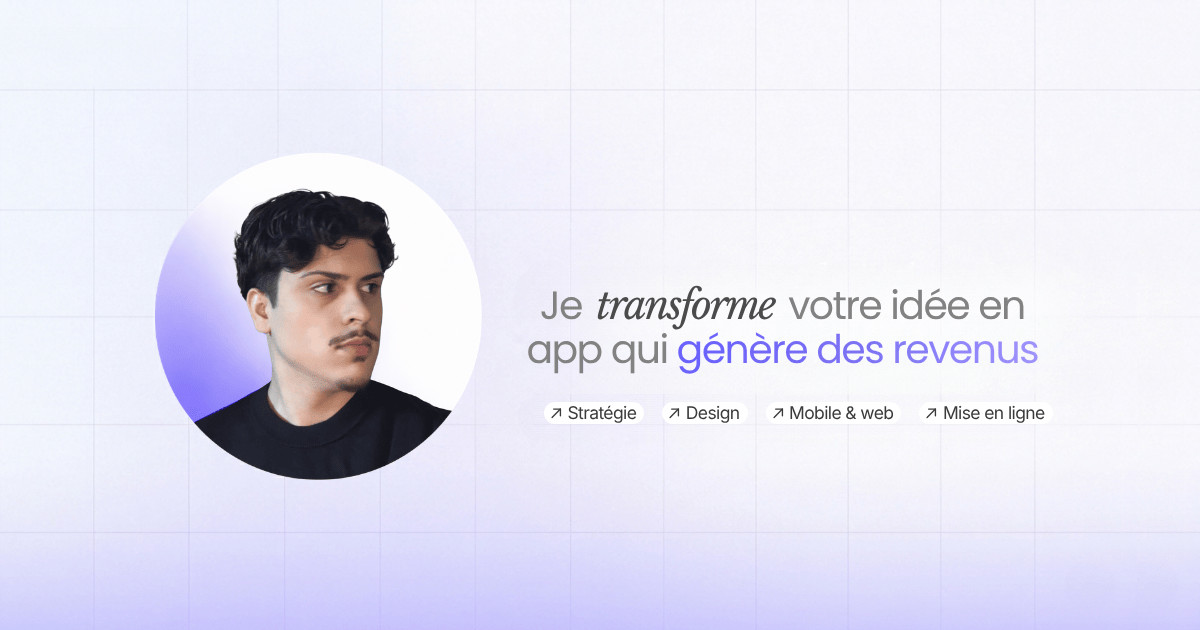
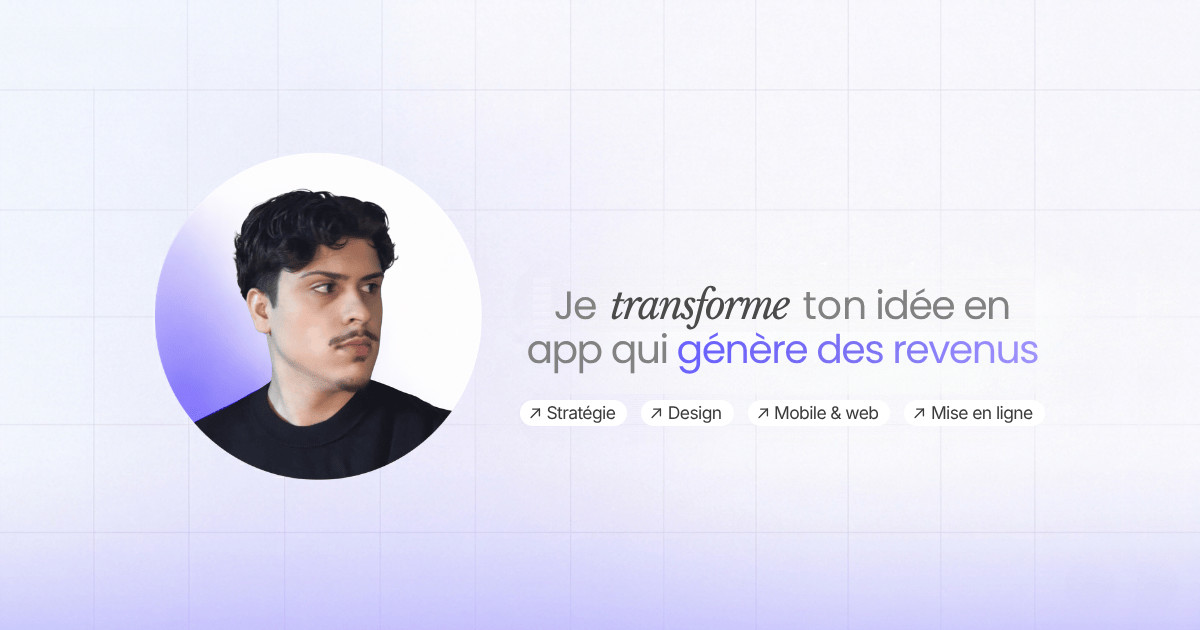
Images de partage : « ton idée », image espace client, dossier rangé
- accueil-og.jpg : « votre idée » devient « ton idée », refait avec les
  lettres de l'image d'origine (même police), bulles plus aérées, contenu
  centré.
- Nouvelle espace-client-og.png (« Devis, factures, échanges » /
  « Espace client »), posée sur /espace-client.
- audit-app-og.png renommée audit-og.png : le dossier meta contient
  quatre images au nom clair (accueil, maquette, espace-client, audit),
  toutes sous 300 Ko.
- generate-routes.js : les remplacements d'aperçu sont factorisés dans
  poserApercuPartage(), utilisée par les maquettes et l'espace client.

Claude-Session: https://claude.ai/code/session_01PSzDaerYfzq1odvAjCNAR4

Changed region(s): [[0.4317, 0.4524, 0.8633, 0.5429], [0.4317, 0.6333, 0.8633, 0.6937]]

diff --git a/scripts/generate-routes.js b/scripts/generate-routes.js
@@ -1073,7 +1073,7 @@ const auditAppRoute = {
   path: '/audit-app',
   heading: 'Tester ton idée d\'application mobile',
   content: 'Réponds à quelques questions et obtiens une première lecture claire avant d\'investir dans le développement : potentiel, budget réaliste, délai, et si ton idée peut générer des revenus.',
-  ogImage: 'https://noecalmes.fr/assets/images/meta/audit-app-og.png',
+  ogImage: 'https://noecalmes.fr/assets/images/meta/audit-og.png',
   ogImageAlt: 'Audit gratuit pour tester si ton idée d\'application mobile peut générer des revenus.',
 }
 
@@ -1132,36 +1132,55 @@ const MAQUETTE_PARTAGE = {
   imageAlt: "L'idée prend forme : place à la maquette, par Noé Calmes",
 }
 
+// Pose un apercu de partage complet sur une page generee : titre, description,
+// image, adresse. Sert aux maquettes et a l'espace client. og:url ET canonique
+// pointent sur la page elle-meme : le robot de Facebook/WhatsApp suit og:url
+// comme adresse de reference, et lisait sinon l'image de l'accueil. Ces pages
+// sont noindex, la canonique n'a aucun effet SEO.
+function poserApercuPartage(html, path, apercu) {
+  const url = urlPublique(path)
+  const remplacements = [
+    [/<title>[^<]*<\/title>/, `<title>${apercu.title}</title>`],
+    [/<meta\s+name="description"\s+content="[^"]*"\s*\/?>/, `<meta name="description" content="${apercu.description}" />`],
+    [/<link\s+rel="canonical"\s+href="[^"]*"\s*\/?>/, `<link rel="canonical" href="${url}" />`],
+    [/<link\s+rel="alternate"\s+hreflang="fr-fr"\s+href="[^"]*"\s*\/?>/, `<link rel="alternate" hreflang="fr-fr" href="${url}" />`],
+    [/<link\s+rel="alternate"\s+hreflang="x-default"\s+href="[^"]*"\s*\/?>/, `<link rel="alternate" hreflang="x-default" href="${url}" />`],
+    [/<meta\s+property="og:url"\s+content="[^"]*"\s*\/?>/, `<meta property="og:url" content="${url}" />`],
+    [/<meta\s+property="og:title"\s+content="[^"]*"\s*\/?>/, `<meta property="og:title" content="${apercu.title}" />`],
+    [/<meta\s+property="og:description"\s+content="[^"]*"\s*\/?>/, `<meta property="og:description" content="${apercu.description}" />`],
+    [/<meta\s+property="og:image"\s+content="[^"]*"\s*\/?>/, `<meta property="og:image" content="${apercu.image}" />`],
+    [/<meta\s+property="og:image:alt"\s+content="[^"]*"\s*\/?>/, `<meta property="og:image:alt" content="${apercu.imageAlt}" />`],
+    [/<meta\s+name="twitter:title"\s+content="[^"]*"\s*\/?>/, `<meta name="twitter:title" content="${apercu.title}" />`],
+    [/<meta\s+name="twitter:description"\s+content="[^"]*"\s*\/?>/, `<meta name="twitter:description" content="${apercu.description}" />`],
+    [/<meta\s+name="twitter:image"\s+content="[^"]*"\s*\/?>/, `<meta name="twitter:image" content="${apercu.image}" />`],
+    [/<meta\s+name="twitter:image:alt"\s+content="[^"]*"\s*\/?>/, `<meta name="twitter:image:alt" content="${apercu.imageAlt}" />`],
+    [/"image":\s*"[^"]*"/, `"image": "${apercu.image}"`],
+  ]
+  for (const [motif, valeur] of remplacements) html = html.replace(motif, valeur)
+  return html
+}
+
 for (const path of mockupRoutes) {
   let html = retirerFaqPage(baseHtml)
-  const url = urlPublique(path)
   html = html.replace(
     /<meta\s+name="robots"\s+content="[^"]*"\s*\/?>/,
     '<meta name="robots" content="noindex, nofollow" />'
   )
-  html = html.replace(/<title>[^<]*<\/title>/, `<title>${MAQUETTE_PARTAGE.title}</title>`)
-  html = html.replace(/<meta\s+name="description"\s+content="[^"]*"\s*\/?>/, `<meta name="description" content="${MAQUETTE_PARTAGE.description}" />`)
-  // og:url ET canonique sur la page elle-meme, pas sur l'accueil : le robot de
-  // Facebook/WhatsApp suit og:url comme adresse de reference et aurait lu
-  // l'image de l'accueil. La page est noindex, la canonique n'a pas d'effet SEO.
-  html = html.replace(/<link\s+rel="canonical"\s+href="[^"]*"\s*\/?>/, `<link rel="canonical" href="${url}" />`)
-  html = html.replace(/<link\s+rel="alternate"\s+hreflang="fr-fr"\s+href="[^"]*"\s*\/?>/, `<link rel="alternate" hreflang="fr-fr" href="${url}" />`)
-  html = html.replace(/<link\s+rel="alternate"\s+hreflang="x-default"\s+href="[^"]*"\s*\/?>/, `<link rel="alternate" hreflang="x-default" href="${url}" />`)
-  html = html.replace(/<meta\s+property="og:url"\s+content="[^"]*"\s*\/?>/, `<meta property="og:url" content="${url}" />`)
-  html = html.replace(/<meta\s+property="og:title"\s+content="[^"]*"\s*\/?>/, `<meta property="og:title" content="${MAQUETTE_PARTAGE.title}" />`)
-  html = html.replace(/<meta\s+property="og:description"\s+content="[^"]*"\s*\/?>/, `<meta property="og:description" content="${MAQUETTE_PARTAGE.description}" />`)
-  html = html.replace(/<meta\s+property="og:image"\s+content="[^"]*"\s*\/?>/, `<meta property="og:image" content="${MAQUETTE_PARTAGE.image}" />`)
-  html = html.replace(/<meta\s+property="og:image:alt"\s+content="[^"]*"\s*\/?>/, `<meta property="og:image:alt" content="${MAQUETTE_PARTAGE.imageAlt}" />`)
-  html = html.replace(/<meta\s+name="twitter:title"\s+content="[^"]*"\s*\/?>/, `<meta name="twitter:title" content="${MAQUETTE_PARTAGE.title}" />`)
-  html = html.replace(/<meta\s+name="twitter:description"\s+content="[^"]*"\s*\/?>/, `<meta name="twitter:description" content="${MAQUETTE_PARTAGE.description}" />`)
-  html = html.replace(/<meta\s+name="twitter:image"\s+content="[^"]*"\s*\/?>/, `<meta name="twitter:image" content="${MAQUETTE_PARTAGE.image}" />`)
-  html = html.replace(/<meta\s+name="twitter:image:alt"\s+content="[^"]*"\s*\/?>/, `<meta name="twitter:image:alt" content="${MAQUETTE_PARTAGE.imageAlt}" />`)
-  html = html.replace(/"image":\s*"[^"]*"/, `"image": "${MAQUETTE_PARTAGE.image}"`)
+  html = poserApercuPartage(html, path, MAQUETTE_PARTAGE)
   const routeDir = join(distDir, path)
   mkdirSync(routeDir, { recursive: true })
   writeFileSync(join(routeDir, 'index.html'), html)
   pagesGenerees.push(join(routeDir, 'index.html'))
   console.log(`✓ Generated ${path}/index.html (mockup noindex, aperçu maquette)`)
+}
+
+// L'espace client a son propre apercu (decision du 10/10/2026) : devis,
+// factures, echanges. Sans pronom, le client pouvant etre vouvoye.
+const ESPACE_CLIENT_PARTAGE = {
+  title: 'Espace client — Noé Calmes',
+  description: 'Devis, factures, suivi du projet et échanges avec Noé Calmes, au même endroit.',
+  image: 'https://noecalmes.fr/assets/images/meta/espace-client-og.png',
+  imageAlt: 'Espace client : devis, factures et échanges avec Noé Calmes',
 }
 
 // ─── Legacy routes — noindex (old URLs that may still be indexed by Google) ──
@@ -1186,6 +1205,7 @@ for (const path of noindexRoutes) {
     '<meta name="robots" content="noindex, nofollow" />'
   )
   html = html.replace(/<title>[^<]*<\/title>/, `<title>Noé Calmes</title>`)
+  if (path === '/espace-client') html = poserApercuPartage(html, path, ESPACE_CLIENT_PARTAGE)
 
   const routeDir = join(distDir, path)
   mkdirSync(routeDir, { recursive: true })

diff --git a/scripts/og/espace-client-og.html b/scripts/og/espace-client-og.html
@@ -1,0 +1,127 @@
+<!doctype html>
+<!--
+  SOURCE DE L'IMAGE DE PARTAGE DE L'ESPACE CLIENT
+  public/assets/images/meta/espace-client-og.png (1200 x 630)
+
+  Pour la regenerer : voir scripts/og/README.md.
+  Meme composition que maquette-og.html. Sans pronom (le client peut etre
+  vouvoye), sans portrait : devis, factures, suivi et echanges avec Noe.
+-->
+<html lang="fr">
+<head>
+<meta charset="utf-8" />
+<style>
+  @font-face { font-family: 'Jakarta'; font-weight: 800; src: url('../../public/assets/fonts/plus-jakarta/PlusJakartaSans-ExtraBold.ttf') format('truetype'); }
+  @font-face { font-family: 'Jakarta'; font-weight: 700; src: url('../../public/assets/fonts/plus-jakarta/PlusJakartaSans-Bold.ttf') format('truetype'); }
+  @font-face { font-family: 'Baskerville'; font-style: italic; font-weight: 400; src: url('LibreBaskerville-Italic.woff2') format('woff2'); }
+
+  * { margin: 0; padding: 0; box-sizing: border-box; }
+  html, body { width: 1200px; height: 630px; overflow: hidden; }
+  body {
+    position: relative;
+    color: #033475;
+    background:
+      radial-gradient(ellipse 60% 70% at 86% 60%, rgba(102, 93, 255, 0.30) 0%, rgba(102, 93, 255, 0.10) 45%, rgba(102, 93, 255, 0) 72%),
+      radial-gradient(ellipse 70% 50% at 20% 115%, rgba(102, 93, 255, 0.16) 0%, rgba(102, 93, 255, 0) 70%),
+      linear-gradient(180deg, #fcfcfe 0%, #f6f5fc 100%);
+  }
+  .grid {
+    position: absolute; inset: 0;
+    background-image:
+      linear-gradient(to right, rgba(102, 93, 255, 0.07) 1px, transparent 1px),
+      linear-gradient(to bottom, rgba(102, 93, 255, 0.07) 1px, transparent 1px);
+    background-size: 100px 100px;
+    background-position: 50px 15px;
+    -webkit-mask-image: radial-gradient(ellipse 80% 90% at 40% 50%, #000 25%, transparent 100%);
+            mask-image: radial-gradient(ellipse 80% 90% at 40% 50%, #000 25%, transparent 100%);
+  }
+
+  /* ─── Texte ─── */
+  .copy {
+    position: absolute; left: 96px; top: 0; bottom: 0;
+    display: flex; flex-direction: column; justify-content: center;
+    padding-bottom: 48px;
+  }
+  .line1 {
+    font-family: 'Baskerville', serif; font-style: italic; font-weight: 400;
+    font-size: 46px; line-height: 1; color: #4b4b4b;
+    margin-bottom: 20px; margin-left: 5px;
+  }
+  .line2 {
+    font-family: 'Jakarta', sans-serif; font-weight: 800;
+    font-size: 98px; line-height: 1.0; letter-spacing: -0.038em;
+    color: #033475;
+  }
+  .line2 .accent {
+    display: inline-block;
+    background: linear-gradient(90deg, #6760ff, #7b73ef, #9e94ff);
+    -webkit-background-clip: text; background-clip: text; color: transparent;
+    padding: 0 10px 28px 0; margin: 0 -10px -28px 0;
+  }
+
+  /* ─── Espace client abstrait ─── */
+  .scene { position: absolute; right: 0; top: 0; width: 540px; height: 630px; }
+  .win {
+    position: absolute; right: 120px; top: 96px; width: 410px; height: 330px;
+    background: #ffffff; border-radius: 18px;
+    border: 1px solid rgba(3, 52, 117, 0.08);
+    box-shadow: 0 30px 70px -30px rgba(102, 93, 255, 0.45), 0 2px 10px rgba(3, 52, 117, 0.05);
+    overflow: hidden;
+  }
+  .win .bar { height: 34px; background: #f5f4fb; border-bottom: 1px solid rgba(3, 52, 117, 0.06); display: flex; align-items: center; gap: 7px; padding-left: 14px; }
+  .win .bar i { width: 9px; height: 9px; border-radius: 50%; background: #d9d6f5; display: block; }
+  .win .bar .url { margin-left: 12px; width: 170px; height: 14px; border-radius: 7px; background: #ebe9f8; }
+  .win .head { margin: 20px 22px 14px; height: 16px; width: 140px; border-radius: 8px; background: #c9c4ff; }
+  .doc { margin: 0 22px 12px; height: 54px; border-radius: 12px; background: #f7f6fc; border: 1px solid rgba(3, 52, 117, 0.05); display: flex; align-items: center; gap: 12px; padding: 0 14px; }
+  .doc .ico { width: 30px; height: 34px; border-radius: 7px; background: #e4e1ff; position: relative; flex: none; }
+  .doc .ico::after { content: ''; position: absolute; left: 7px; right: 7px; top: 10px; height: 3px; border-radius: 2px; background: #b9b3ff; box-shadow: 0 6px 0 #c9c4ff, 0 12px 0 #d6d2ff; }
+  .doc .l { flex: 1; }
+  .doc .l b { display: block; width: 110px; height: 10px; border-radius: 5px; background: #d2cfe6; margin-bottom: 8px; }
+  .doc .l s { display: block; width: 70px; height: 8px; border-radius: 4px; background: #e6e4f3; }
+  .doc .tag { width: 58px; height: 22px; border-radius: 11px; flex: none; }
+  .tag.ok { background: #dff5e8; }
+  .tag.ok::before { content: ''; display: block; margin: 7px auto 0; width: 30px; height: 8px; border-radius: 4px; background: #8fd6ac; }
+  .tag.wait { background: #ece9ff; }
+  .tag.wait::before { content: ''; display: block; margin: 7px auto 0; width: 30px; height: 8px; border-radius: 4px; background: #b3acff; }
+
+  .chat {
+    position: absolute; right: 60px; top: 276px; width: 300px; padding: 18px;
+    background: #ffffff; border-radius: 24px;
+    border: 1px solid rgba(3, 52, 117, 0.07);
+    box-shadow: 0 40px 80px -30px rgba(3, 52, 117, 0.35), 0 2px 10px rgba(3, 52, 117, 0.05);
+    display: flex; flex-direction: column; gap: 10px;
+  }
+  .chat .who { display: flex; align-items: center; gap: 10px; margin-bottom: 4px; }
+  .chat .who i { width: 30px; height: 30px; border-radius: 50%; background: linear-gradient(135deg, #665dff, #9e94ff); display: block; }
+  .chat .who b { width: 90px; height: 10px; border-radius: 5px; background: #d2cfe6; display: block; }
+  .bub { height: 34px; border-radius: 17px; }
+  .bub.in { width: 190px; background: #f2f1f8; border-bottom-left-radius: 6px; }
+  .bub.out { width: 160px; align-self: flex-end; background: #665dff; border-bottom-right-radius: 6px; }
+  .bub.in.short { width: 130px; }
+</style>
+</head>
+<body>
+  <div class="grid"></div>
+
+  <div class="scene">
+    <div class="win">
+      <div class="bar"><i></i><i></i><i></i><span class="url"></span></div>
+      <div class="head"></div>
+      <div class="doc"><span class="ico"></span><span class="l"><b></b><s></s></span><span class="tag ok"></span></div>
+      <div class="doc"><span class="ico"></span><span class="l"><b></b><s></s></span><span class="tag wait"></span></div>
+      <div class="doc"><span class="ico"></span><span class="l"><b></b><s></s></span><span class="tag ok"></span></div>
+    </div>
+    <div class="chat">
+      <div class="who"><i></i><b></b></div>
+      <div class="bub in"></div>
+      <div class="bub out"></div>
+      <div class="bub in short"></div>
+    </div>
+  </div>
+
+  <div class="copy">
+    <div class="line1">Devis, factures, échanges</div>
+    <div class="line2">Espace<br /><span class="accent">client</span></div>
+  </div>
+</body>
+</html>

diff --git a/scripts/og/accueil-og.html b/scripts/og/accueil-og.html
@@ -10,8 +10,8 @@
 *{margin:0;padding:0;box-sizing:border-box}
 html,body{width:1200px;height:630px;overflow:hidden}
 body{background:url('accueil-og-fond.png') 0 0/1200px 630px no-repeat;position:relative}
-.chips{position:absolute;left:544px;top:402px;display:flex;gap:18px}
-.chip{display:inline-flex;align-items:center;gap:5px;height:22px;padding:0 8px 0 6px;border-radius:11px;background:#fff;font-family:'Bulle',sans-serif;font-weight:400;font-size:17.5px;letter-spacing:-0.035em;color:#3b3b3b;line-height:1}
+.chips{position:absolute;left:520px;top:400px;display:flex;gap:14px}
+.chip{display:inline-flex;align-items:center;gap:5px;height:26px;padding:0 12px 0 9px;border-radius:13px;background:#fff;font-family:'Bulle',sans-serif;font-weight:400;font-size:17.5px;letter-spacing:-0.035em;color:#3b3b3b;line-height:1}
 .chip svg{width:12.5px;height:12.5px;flex:none}
 </style></head><body><div class="chips">
 <span class="chip"><svg viewBox="0 0 12 12" fill="none" stroke="#3b3b3b" stroke-width="1.3" stroke-linecap="round" stroke-linejoin="round"><line x1="2" y1="10" x2="10" y2="2"/><polyline points="3.5 2 10 2 10 8.5"/></svg>Stratégie</span>

diff --git a/src/audit-app/AuditApp.jsx b/src/audit-app/AuditApp.jsx
@@ -72,7 +72,7 @@ export default function AuditApp({ onBack, onLegal }) {
       path: '/audit-app',
       title: "Tester ton idée d'application mobile en 2 minutes | Noé Calmes",
       description: "Teste ton idée d'application mobile avant d'investir : potentiel, budget, délai et si elle peut générer des revenus, en 2 minutes.",
-      ogImage: 'https://noecalmes.fr/assets/images/meta/audit-app-og.png',
+      ogImage: 'https://noecalmes.fr/assets/images/meta/audit-og.png',
     })
   }, [])
 

diff --git a/scripts/og/README.md b/scripts/og/README.md
@@ -1,18 +1,26 @@
 # Images de partage (aperçu des liens WhatsApp, iMessage, LinkedIn)
 
-Les trois images vivent dans `public/assets/images/meta/` et il n'y en a pas
-d'autre :
+Quatre images, toutes dans `public/assets/images/meta/`, et aucune autre :
 
 | Image | Où elle s'affiche | Source ici |
 |---|---|---|
-| `accueil-og.jpg` | `noecalmes.fr` et toutes les pages, sauf les deux lignes suivantes | `accueil-og.html` + `accueil-og-fond.png` |
-| `maquette-og.png` | `noecalmes.fr/maquette` et toutes les `/maquette/...` | `maquette-og.html` |
-| `audit-app-og.png` | `/audit-app` | `audit-app-og.html` (était dans `public/`, donc publié par erreur) |
+| `accueil-og.jpg` | `noecalmes.fr` et tous les liens, sauf les trois lignes suivantes | `accueil-og.html` + `accueil-og-fond.png` |
+| `maquette-og.png` | `/maquette` et toutes les `/maquette/...` | `maquette-og.html` |
+| `espace-client-og.png` | `/espace-client` | `espace-client-og.html` |
+| `audit-og.png` | `/audit-app` | `audit-og.html` |
 
-`accueil-og.jpg` est déclarée dans `index.html` (donc héritée par toutes les
-pages générées) et dans `public/legal/index.html`. `maquette-og.png` est posée
-par `scripts/generate-routes.js` (bloc « Client mockup routes »).
-`audit-app-og.png` par le même script et par `src/audit-app/AuditApp.jsx`.
+Qui les pose : `accueil-og.jpg` est dans `index.html` (donc héritée par toutes
+les pages générées) et `public/legal/index.html`. Les trois autres sont posées
+par `scripts/generate-routes.js` (fonction `poserApercuPartage`), et l'audit
+aussi par `src/audit-app/AuditApp.jsx`.
+
+Poids : chaque image doit rester sous 300 Ko, au-delà WhatsApp n'affiche pas
+toujours l'aperçu.
+
+⚠ Les liens `/espace-client/{client}/{jeton}` et `/maquette-visuel/...` n'ont
+pas de page à eux sur GitHub Pages : ils répondent 404 aux robots de partage,
+puis `public/404.html` les rattrape en JavaScript pour le visiteur. Les robots
+n'exécutent pas ce JavaScript, donc ces liens-là n'ont pas d'aperçu dédié.
 
 Titre de Noé dans ces images et partout ailleurs : « Expert en applications
 mobiles & web ». Pas de « SaaS » dans un titre (décision du 10/10/2026) : le mot
@@ -24,12 +32,13 @@ En JPEG (environ 90 Ko) et pas en PNG : le grain du fond faisait monter le PNG
 à 700 Ko, et WhatsApp n'affiche pas toujours un aperçu au-delà d'environ
 300 Ko. Rendre `accueil-og.html` en PNG puis convertir en JPEG qualité 90.
 
-C'est l'image d'origine (ex `new-og-image.png`) **à l'identique** : même texte,
-même police, même mise en page. Décision de Noé du 10/10/2026 : on ne touche
-qu'aux bulles. `MVP · Flutter · IOS & Android · Produit` sont devenues
+C'est l'image d'origine (ex `new-og-image.png`) avec trois retouches seulement,
+décidées par Noé le 10/10/2026 : « votre idée » devient « ton idée » (refait
+avec les lettres mêmes de l'image d'origine, police identique), le contenu est
+centré (155 px de marge de chaque côté), et les bulles changent. `MVP · Flutter · IOS & Android · Produit` sont devenues
 `Stratégie · Design · Mobile & web · Mise en ligne` (Flutter et MVP sont
-interdits en public). `accueil-og-fond.png` est l'image d'origine bulles
-effacées ; `accueil-og.html` pose les bulles par-dessus, en Inter normal.
+interdits en public). `accueil-og-fond.png` est l'image d'origine retouchée,
+bulles effacées ; `accueil-og.html` pose les bulles par-dessus, en Inter normal.
 
 ## Image des maquettes
 
